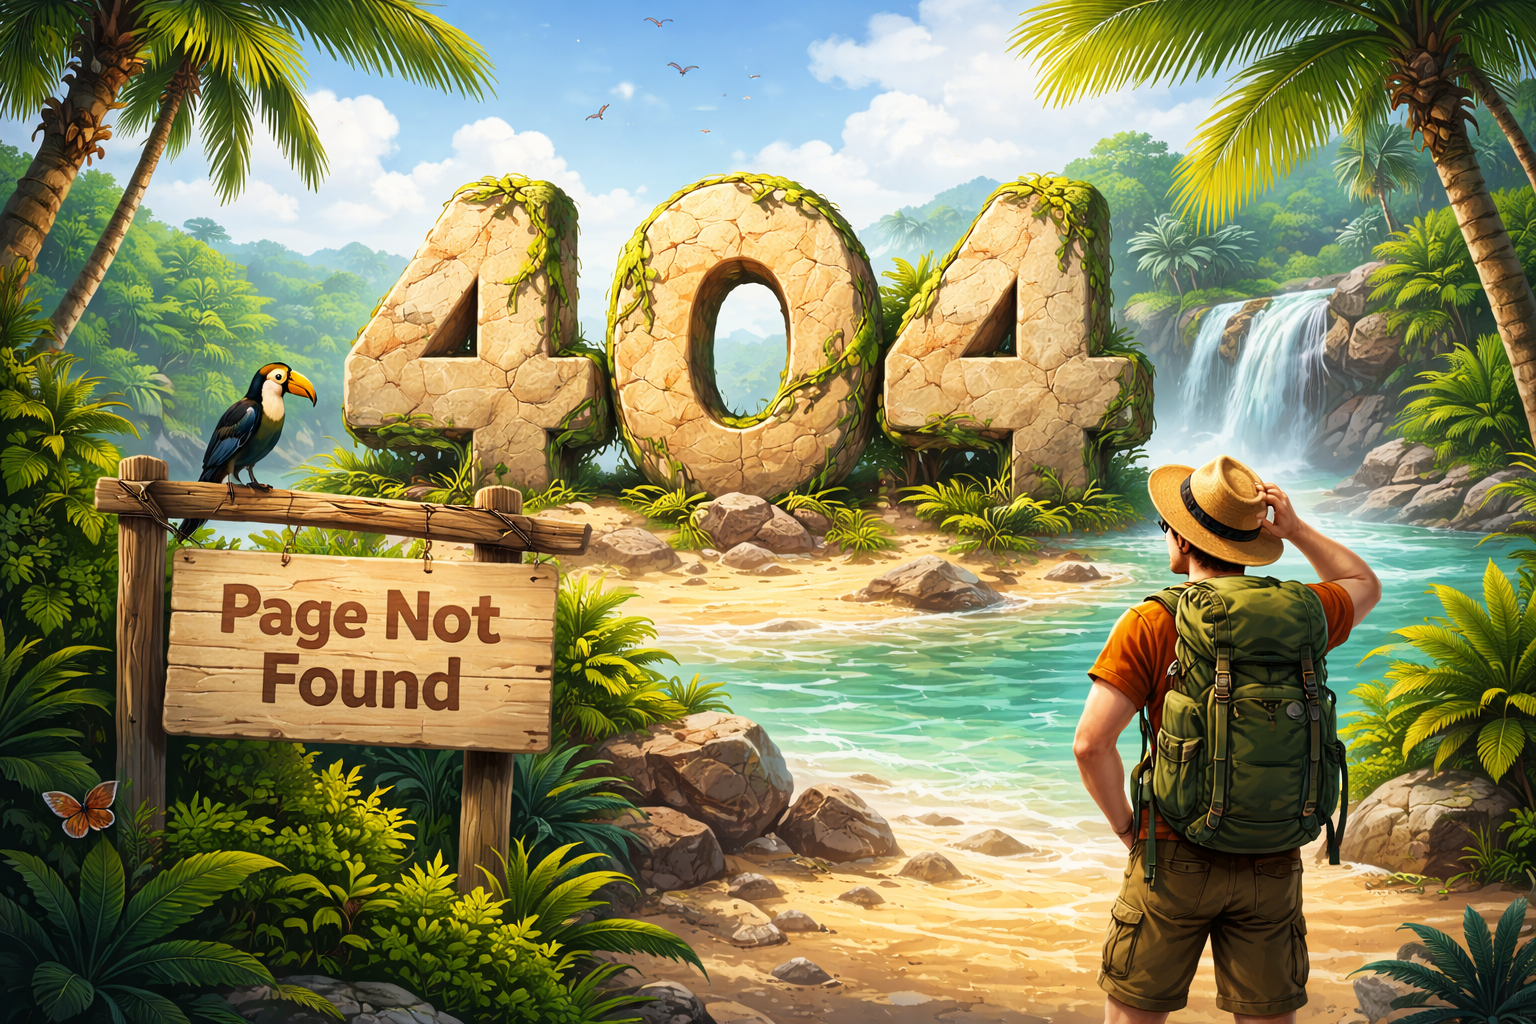
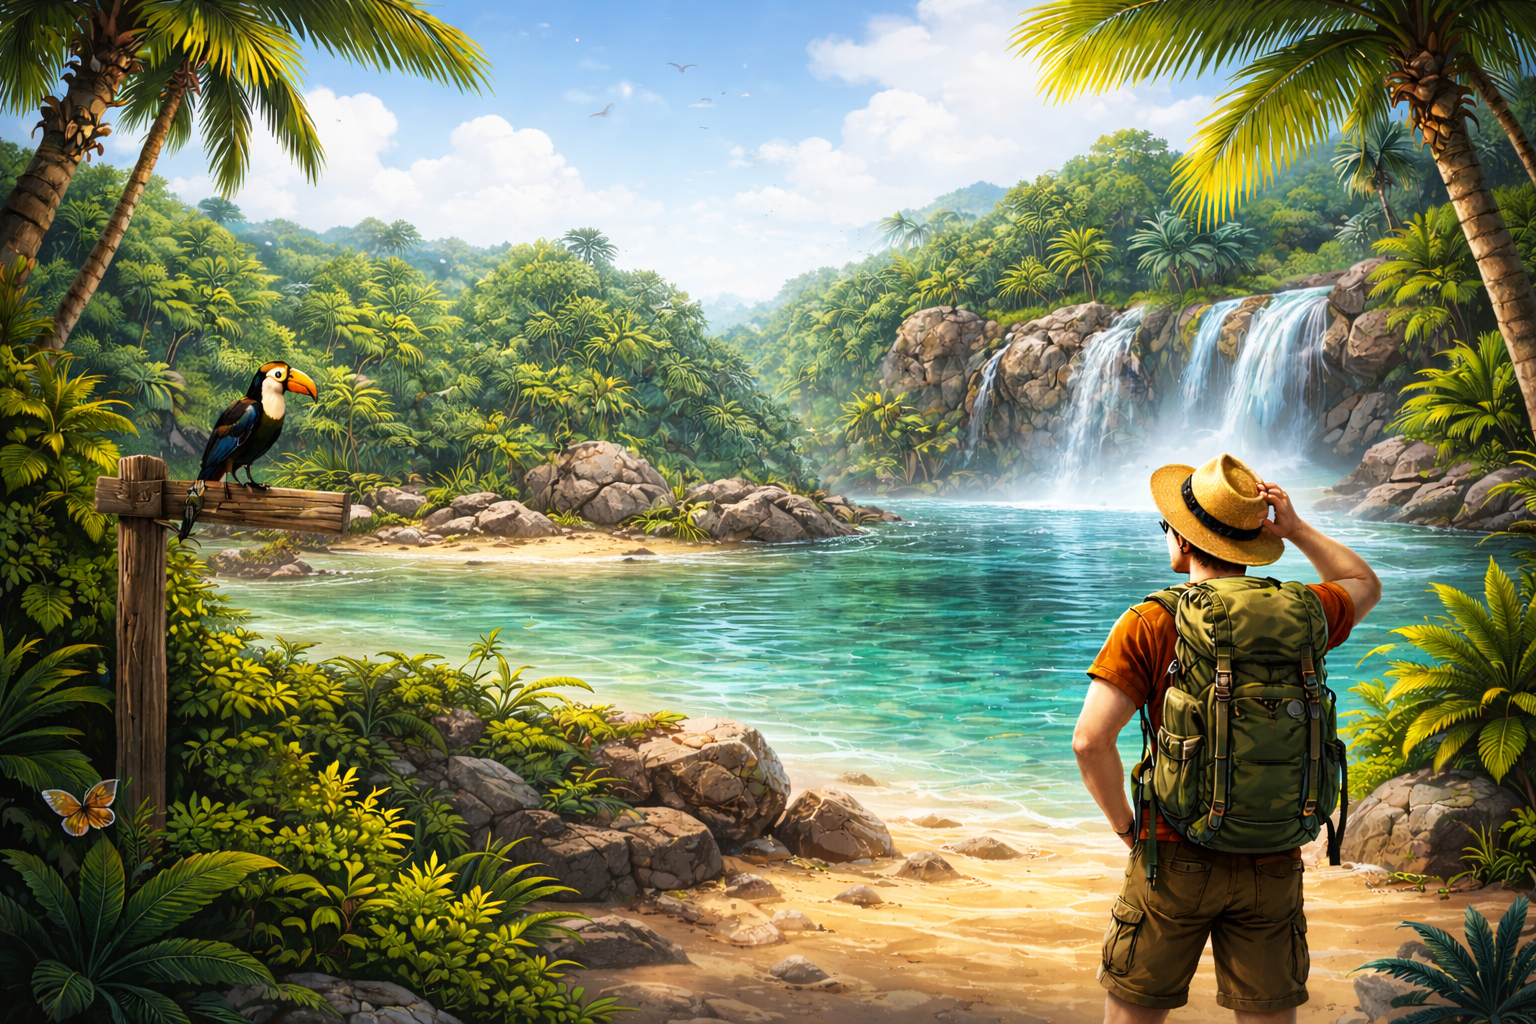
Error page updated 2

diff --git a/src/components/Fixed/Error404.jsx b/src/components/Fixed/Error404.jsx
@@ -1,5 +1,7 @@
 import { Link } from "react-router-dom";
-import errorBg from "/images/error.png"; // put your generated image here
+import errorLogo from "/Logo/error.png";
+import errorBg from "/images/error.png";
+
 
 export default function Error404() {
     return (
@@ -8,25 +10,34 @@ export default function Error404() {
             style={{ backgroundImage: `url(${errorBg})` }}
         >
             {/* Dark overlay for better readability */}
-            <div className="absolute inset-0 bg-black/50 backdrop-blur-[2px]"></div>
+            <div className="absolute inset-0 bg-black/50 backdrop-blur-xs"></div>
 
-            {/* Content Box */}
-            <div className="relative z-10 text-center max-w-lg px-8 py-10 bg-white/10 backdrop-blur-xl rounded-2xl shadow-2xl border border-white/20">
-                <h1 className="text-5xl md:text-6xl font-extrabold text-orange-400 drop-shadow">
-                    404
-                </h1>
-                <h2 className="text-2xl md:text-3xl font-bold text-white mt-2">
+
+            {/* Content Card */}
+            <div className="relative z-10 text-center max-w-xl w-full  p-8 md:p-12 rounded-3xl ">
+
+                {/* 404 Logo */}
+                <div className="flex justify-center mb-6">
+                    <img
+                        src={errorLogo}
+                        alt="404 Error"
+                        className="w-64 md:w-80 drop-shadow"
+                    />
+                </div>
+
+                {/* Text */}
+                <h2 className="text-2xl md:text-3xl font-bold text-white mb-2">
                     Page Not Found
                 </h2>
-
-                <p className="mt-4 text-gray-200 leading-relaxed">
-                    Oops! Looks like you’ve wandered off the map.
-                    The page you’re looking for doesn’t exist or has been moved.
+                <p className="text-gray-300 leading-relaxed">
+                    Oops! You’ve gone off the travel route.
+                    This destination doesn’t exist or has been moved.
                 </p>
 
+                {/* Button */}
                 <Link
                     to="/"
-                    className="inline-block mt-6 bg-orange-500 hover:bg-orange-600 text-white px-6 py-3 rounded-full font-semibold shadow-lg transition-all duration-300 transform hover:scale-105"
+                    className="inline-flex items-center gap-2 mt-6 bg-orange-500 hover:bg-orange-600 text-white px-8 py-3 rounded-full font-semibold shadow-lg transition-all duration-300 transform hover:scale-110 hover:shadow-orange-500/50"
                 >
                     Back to Home
                 </Link>
